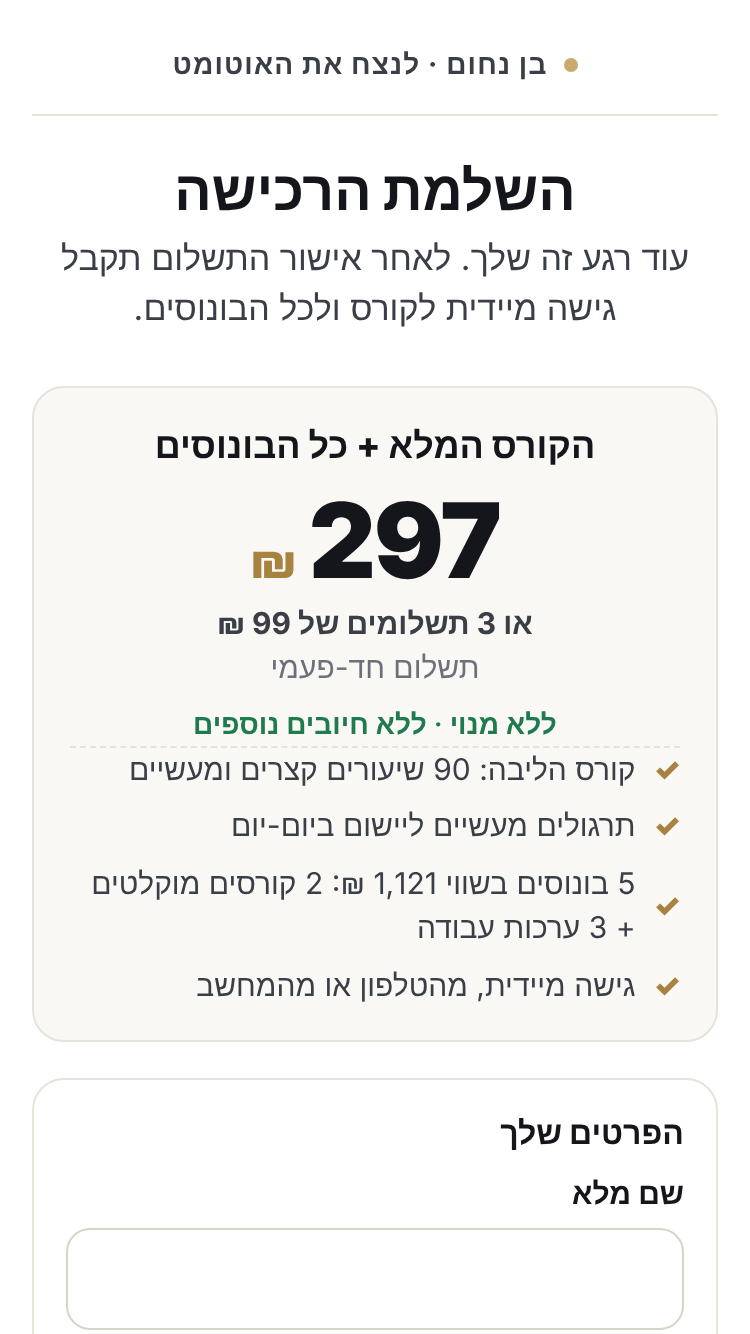
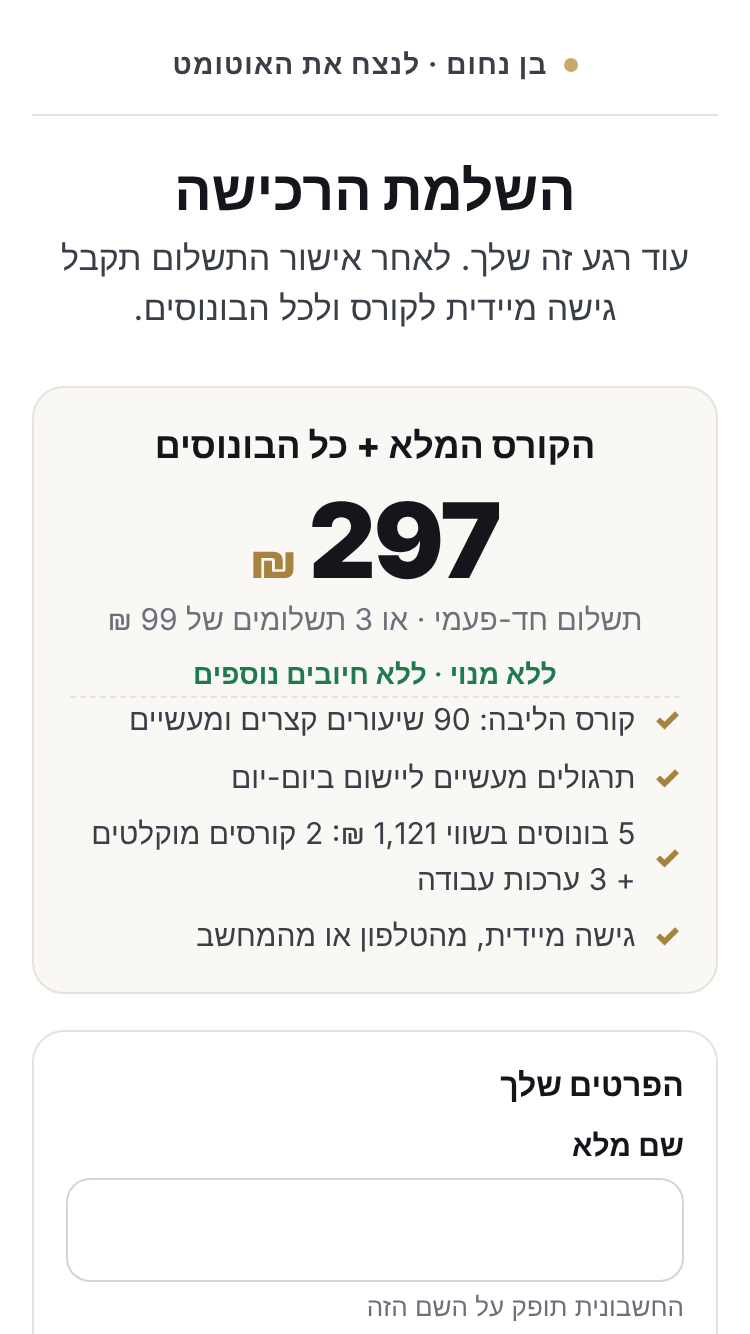
ב102 נפרס: daily עם on_1611 ו-ig_org לפי סליקה, תיאור ig_org מתוקן, צילומים
Claude-Session: https://claude.ai/code/session_01AWaDsUUa9CSR7XwcRd86aw

diff --git a/claude/b102/t_b102.js b/claude/b102/t_b102.js
@@ -37,10 +37,10 @@ let n = 0, f = 0; const ok = (m, c, i) => { n++; if (!c) { f++; console.log("FAI
     ok(arm + ": landed with exp=on_1611", u.pathname.endsWith("/" + arm + ".html") && u.searchParams.get("exp") === "on_1611", u.href);
     ok(arm + ": page events carry exp=on_1611 and aff=gal", X.ev.some(e => e.variant === arm && /exp=on_1611/.test(e.qs || "") && /aff=gal/.test(e.x || "")));
     await Promise.all([X.p.waitForURL(/checkout\.html/, { timeout: 10000 }).catch(() => {}), X.p.click('[data-cta="hero_main"] >> nth=0')]); await X.p.waitForTimeout(1500);
-    const c = new URL(X.p.url()); const st = await X.p.evaluate(() => ({ co: window.NLP_CO, dco: document.documentElement.getAttribute("data-co"), trust: getComputedStyle(document.getElementById("coTrust")).display, one1: getComputedStyle(document.querySelector(".one1")).display, price: getComputedStyle(document.querySelector(".order .price")).display, pay3: getComputedStyle(document.querySelector(".pay3")).display }));
+    const c = new URL(X.p.url()); const st = await X.p.evaluate(() => ({ co: window.NLP_CO, dco: document.documentElement.getAttribute("data-co"), trust: getComputedStyle(document.getElementById("coTrust")).display, one1: getComputedStyle(document.querySelector(".one1")).display, price: getComputedStyle(document.querySelector(".order .price")).display, pay3: getComputedStyle(document.querySelector(".pay3")).display, pay3i: getComputedStyle(document.querySelector(".pay3i")).display, name: Math.round(document.getElementById("fName").getBoundingClientRect().top + scrollY) }));
     ok(arm + ": checkout with v, exp, sid", /checkout\.html$/.test(c.pathname) && c.searchParams.get("v") === arm && /on_1611/.test(c.search) && !!c.searchParams.get("sid"), c.search);
     ok(arm + ": checkout version " + co, st.co === co && st.dco === (co === "a" ? "a" : "b"), JSON.stringify(st));
-    if (arm === "a") ok("a: checkout A as it was - price card shown, no one-line card, no trust row, 3 payments line shown (mobile)", st.price !== "none" && st.one1 === "none" && st.trust === "none" && st.pay3 !== "none", JSON.stringify(st));
+    if (arm === "a") ok("a: checkout A as it was - price card shown, no one-line card, no trust row, 3 payments line shown (mobile)", st.price !== "none" && st.one1 === "none" && st.trust === "none" && st.pay3 === "none" && st.pay3i !== "none", JSON.stringify(st));
     else ok("a5v6: B2 as today - one-line card, trust row (mobile)", st.one1 !== "none" && st.trust !== "none" && st.price === "none", JSON.stringify(st));
     if (SH) await X.p.screenshot({ path: path.join(SH, "arm_" + arm + "_checkout_iphone13.png") });
     await X.p.fill("#fName", "בדיקה פנימית"); await X.p.waitForTimeout(500);
@@ -82,7 +82,7 @@ let n = 0, f = 0; const ok = (m, c, i) => { n++; if (!c) { f++; console.log("FAI
   const note = await D2.p.evaluate(() => document.getElementById("onN").textContent); ok("stop-rule progress shown (3 / 2)", /150/.test(note) && /3 \/ 2/.test(note), note);
   ok("dashboard: no JS errors", !D2.errs.length, D2.errs.join("|"));
   const ex = await D2.p.evaluate(() => [ON_START.toISOString(), CHANGELOG[0][1].slice(0, 30), EXPERIMENTS[0].id, EXPERIMENTS.find(e => e.id === "pg_1611").status]);
-  ok("start 20:10, changelog ב102, experiments on_1611 first, pg_1611 closed", ex[0] === "2026-11-16T18:10:00.000Z" && /ב102/.test(ex[1]) && ex[2] === "on_1611" && /נסגר/.test(ex[3]), JSON.stringify(ex));
+  ok("start 20:10, changelog ב102, experiments on_1611 first, pg_1611 closed", ex[0] === (process.env.ONSTART || "2026-11-16T18:10:00.000Z") && /ב102/.test(ex[1]) && ex[2] === "on_1611" && /נסגר/.test(ex[3]), JSON.stringify(ex));
   const scr = async (X, s) => { await X.p.evaluate(s => setScreen(s), s); await X.p.waitForTimeout(300); return X.p.evaluate(s => document.getElementById("s-" + s).innerText.replace(/עודכן \d\d:\d\d/g, ""), s) };
   for (const s of ["snap", "co", "af", "fin", "up"]) ok("screen " + s + " unchanged", (await scr(D1, s)) === (await scr(D2, s)));
   console.log("TOTAL", n - f + "/" + n); await b.close(); process.exit(f ? 1 : 0) })();

diff --git a/claude/b102/patch_b102.py b/claude/b102/patch_b102.py
@@ -21,7 +21,7 @@ patch("nlp/go.html", [
   }
 ''', '''  /* ב102 ("מאשר ב102" מיהב, %s %s, בן אישר): ניסוי on_1611 - המסלול הישן (a.html + סליקה A, שני שלבים) מול a5v6 + סליקה B2. חצי-חצי, קבוע לדפדפן,
      לכל התנועה שעוברת ב-go.html. pg_1611 נסגר: מי ששובץ בו (או ב-ap2_0811) נשאר בדף שלו עם ה-exp הישן ולא נכנס לניתוח. pr2 נשאר באתר, מחוץ לחלוקה.
-     הזרוע נשמרת גם ב-nlp_co_ab, ודף התשלום פותח לפיה סליקה A או B2. אינסטגרם אורגני ממשיך ל-a בלי exp (ב44) */
+     הזרוע נשמרת גם ב-nlp_co_ab, ודף התשלום פותח לפיה סליקה A או B2. אינסטגרם אורגני ממשיך ל-a בלי exp (ב44), אבל מבקר חדש מוגרל קודם לזרוע (nlp_co_ab), ולכן בסליקה הוא מקבל A או B2 לפי הזרוע */
   var EXP="on_1611", K="nlp_go_"+EXP, v=null, pg=null, o=null, ex=EXP; try{ v=localStorage.getItem(K); pg=localStorage.getItem("nlp_go_pg_1611"); o=localStorage.getItem("nlp_go_ap2_0811"); }catch(e){}
   if(v!=="a"&&v!=="a5v6"){
     if(pg==="a5v6"||pg==="pr2"){ v=pg; ex="pg_1611"; }
@@ -48,8 +48,11 @@ window.NLP_CO=c;document.documentElement.setAttribute("data-co2",c==="b2"?"1":"0
 if(c!=="a"&&c!=="b"&&c!=="b2"){if(q.get("exp")==="on_1611")c=(q.get("v")==="a"?"a":"b2");else{var ab=null,v=null;try{ab=localStorage.getItem("nlp_co_ab");v=localStorage.getItem("nlp_co_b2")}catch(e){}
  if(ab==="a"||ab==="b2")c=ab;else if(v==="b"||v==="b2")c=v;else{c="b2";try{localStorage.setItem("nlp_co_b2","b2")}catch(e){}}}}}catch(e){c="b2"}
 window.NLP_CO=c;document.documentElement.setAttribute("data-co2",c==="b2"?"1":"0");document.documentElement.setAttribute("data-co",c==="a"?"a":"b")})();</script>''' % D),
+ ('''<p class="once">תשלום חד-פעמי</p>''', '''<p class="once">תשלום חד-פעמי<span class="pay3i"> · או 3 תשלומים של 99 ₪</span></p>'''),
  ('''.fld+.trust{margin:-2px 0 12px}''', '''.fld+.trust{margin:-2px 0 12px}
-html[data-co="a"] .trust{display:none} /* ב102: סליקה A כמו שהייתה (בלי שורת האמון של ב96) */'''),
+html[data-co="a"] .trust{display:none} /* ב102: סליקה A כמו שהייתה (בלי שורת האמון של ב96) */
+.pay3i{display:none}
+@media (max-width:600px){html[data-co="a"] .pay3{display:none}html[data-co="a"] .pay3i{display:inline}} /* ב102: ב-A במובייל שורת 3 התשלומים מאוחדת עם "תשלום חד-פעמי" - בלי תוספת גובה */'''),
  ('''@media (max-width:600px){
 .wrap{padding-top:10px}
 .brand{padding:2px 0 8px}
@@ -106,12 +109,12 @@ function renderOn(M){const who=s=>s.vid||s.sid,ARM={a:"ישן: a + סליקה A"
  ('''op:()=>{renderPg(build(EXP.start,new Date(Date.now()+864e5)));renderOpt()},''', '''op:()=>{renderOn(build(ON_START,new Date(Date.now()+864e5)));renderPg(build(EXP.start,new Date(Date.now()+864e5)));renderOpt()},'''),
  ('''const EXPERIMENTS=[
 ''', '''const EXPERIMENTS=[
- {id:"on_1611",name:"המסלול הישן מול הדף החדש (ב102, %s)",hyp:"המסלול הישן (a + סליקה A בשני שלבים) מביא יותר השארת פרטים מ-a5v6 + B2 (ב-Pilot: a 8 מ-129, a5/pr2/a5v6 יחד 1 מ-208)",change:"go.html מחלק חצי-חצי בין a (סליקה A) ל-a5v6 (סליקה B2), קבוע לדפדפן, exp=on_1611. pg_1611 וניסוי B מול B2 נסגרו; מי ששובץ קודם נשאר בדף שלו מחוץ לניתוח",arms:"ישן (a + סליקה A) מול חדש (a5v6 + B2), חצי-חצי, שיוך קבוע לדפדפן",start:"%s",end:"",status:"פעיל",split:"50/50",primary:"השאירו פרטים לאדם, ממודעות של בן בלבד (משווקים בנפרד). עצירה: 150 אנשים לזרוע או 14 יום; מנצחת פי 2 ולפחות 5",secondary:"הגעה לדף התשלום, התחלת מילוי, טופס תשלום, רכישות מאומתות",guard:"חלוקה תקינה (SRM), סליקה לפי זרוע (a->A, a5v6->B2), שגיאות טעינה וכשלי תשלום"},
+ {id:"on_1611",name:"המסלול הישן מול הדף החדש (ב102, %s)",hyp:"המסלול הישן (a + סליקה A בשני שלבים) מביא יותר השארת פרטים מ-a5v6 + B2 (ב-Pilot: a 8 מ-129, a5/pr2/a5v6 יחד 1 מ-208)",change:"go.html מחלק חצי-חצי בין a (סליקה A) ל-a5v6 (סליקה B2), קבוע לדפדפן, exp=on_1611. pg_1611 וניסוי B מול B2 נסגרו; מי ששובץ קודם נשאר בדף שלו מחוץ לניתוח. אינסטגרם אורגני: ל-a בלי exp, ובסליקה A או B2 לפי הזרוע שהוגרלה",arms:"ישן (a + סליקה A) מול חדש (a5v6 + B2), חצי-חצי, שיוך קבוע לדפדפן",start:"%s",end:"",status:"פעיל",split:"50/50",primary:"השאירו פרטים לאדם, ממודעות של בן בלבד (משווקים בנפרד). עצירה: 150 אנשים לזרוע או 14 יום; מנצחת פי 2 ולפחות 5",secondary:"הגעה לדף התשלום, התחלת מילוי, טופס תשלום, רכישות מאומתות",guard:"חלוקה תקינה (SRM), סליקה לפי זרוע (a->A, a5v6->B2), שגיאות טעינה וכשלי תשלום"},
 ''' % (D, day)),
  ('''arms:"a5v6, pr2 חצי-חצי, שיוך קבוע לדפדפן",start:"2026-11-15",end:"",status:"פעיל",''', '''arms:"a5v6, pr2 חצי-חצי, שיוך קבוע לדפדפן",start:"2026-11-15",end:"%s",status:"נסגר (ב102)",''' % day),
  ('''const CHANGELOG=[
 ''', '''const CHANGELOG=[
-["%s","%s - ב102 (\\"מאשר ב102\\" מיהב, בן אישר): ניסוי on_1611 - go.html מחלק חצי-חצי בין המסלול הישן (a + סליקה A, שני שלבים) ל-a5v6 + B2, קבוע לדפדפן. pg_1611 וניסוי B מול B2 נסגרו (מי ששובץ קודם נשאר בדף שלו). סליקה A בעיצוב שלה (בלי שורת האמון ובלי כרטיס השורה האחת של ב99), עם 3 התשלומים, ביט, Apple Pay ו-Google Pay, ההתאמה המתקדמת וסימון הבדיקה. cx=co_on_1611. ההשוואה מ-%s."],
+["%s","%s - ב102 (\\"מאשר ב102\\" מיהב, בן אישר): ניסוי on_1611 - go.html מחלק חצי-חצי בין המסלול הישן (a + סליקה A, שני שלבים) ל-a5v6 + B2, קבוע לדפדפן. pg_1611 וניסוי B מול B2 נסגרו (מי ששובץ קודם נשאר בדף שלו). סליקה A בעיצוב שלה (בלי שורת האמון ובלי כרטיס השורה האחת של ב99), עם 3 התשלומים, ביט, Apple Pay ו-Google Pay, ההתאמה המתקדמת וסימון הבדיקה. cx=co_on_1611. אינסטגרם אורגני ממשיך ל-a בלי exp, אבל מבקר חדש מוגרל לזרוע ובסליקה מקבל A או B2 לפיה (שורה נפרדת בסיכום היומי). ההשוואה מ-%s."],
 ''' % (day, hm, ST.strftime("%H:%M"))),
 ])
 
@@ -129,6 +132,15 @@ for lab,keep in (("paid",lambda s:s["src"]=="paid"),("aff",lambda s:s["src"]=="a
     R3={v:{"people":len(P[v]),"checkout":sum(o["chk"] for o in P[v].values()),"started":sum(o["det"] for o in P[v].values()),"leads":sum(o["lead"] for o in P[v].values()),"payform":sum(o["pay"] for o in P[v].values()),"buys":sum(o["buy"] for o in P[v].values())} for v in ("a","a5v6")}
     print("b102 on_1611",lab,R3,"| SRM",srm(R3["a"]["people"],R3["a5v6"]["people"]))
 print("b102 stop rule: paid people per arm (150) a=%%d a5v6=%%d, days %%d of 14" %% (len({s["vid"] or s["t"] for s in S.values() if s["exp"]=="on_1611" and s["v"]=="a" and s["t"]>=ON and s["src"]=="paid"}),len({s["vid"] or s["t"] for s in S.values() if s["exp"]=="on_1611" and s["v"]=="a5v6" and s["t"]>=ON and s["src"]=="paid"}),max(0,(datetime.now()-ON).days)))
+IG=defaultdict(lambda: defaultdict(lambda: defaultdict(int)))
+for s in S.values():
+    if s["route"]=="ig_org" and s["t"]>=ON and s["chk"]:
+        o=IG[s["co"] or "-"][s["vid"] or s["t"].isoformat()]
+        for f in ("chk","lead","buy"): o[f]|=s.get(f,0)
+IGP=defaultdict(set)
+for s in S.values():
+    if s["route"]=="ig_org" and s["t"]>=ON: IGP["all"].add(s["vid"] or s["t"].isoformat())
+print("b102 ig_org by checkout (A vs B2): people (all ig_org)",len(IGP["all"]),{co:{"reached checkout":len(P),"details":sum(o["lead"] for o in P.values()),"buys":sum(o["buy"] for o in P.values())} for co,P in IG.items()})
 print("b102 checkout version by arm (should be a->a, a5v6->b2):",Counter((s["v"],s["co"] or "-") for s in S.values() if s["exp"]=="on_1611" and s["chk"]))
 EXPID="a5v6_1511"
 report(SC''' % (ST.year, ST.month, ST.day, ST.hour, ST.minute)),

diff --git a/claude/daily/daily_0811.py b/claude/daily/daily_0811.py
@@ -111,6 +111,27 @@ for lab,keep in (("paid",lambda s:s["src"]=="paid"),("aff",lambda s:s["src"]=="a
         for f in ("chk","det","lead","buy"): o[f]|=s.get(f,0)
     R2={v:{"people":len(P[v]),"checkout":sum(o["chk"] for o in P[v].values()),"started":sum(o["det"] for o in P[v].values()),"leads":sum(o["lead"] for o in P[v].values()),"buys":sum(o["buy"] for o in P[v].values())} for v in ("a5v6","pr2")}
     print("b94 pg_1611",lab,R2,"| SRM",srm(R2["a5v6"]["people"],R2["pr2"]["people"]))
+# ב102: on_1611 - "ישן" (a + סליקה A) מול "חדש" (a5v6 + B2). ראשי: השאירו פרטים (checkout_details) לאדם, ממודעות של בן בלבד. משווקים בנפרד
+ON=datetime(2026,11,16,15,5)  # פריסה + 10 דקות מטמון
+for lab,keep in (("paid",lambda s:s["src"]=="paid"),("aff",lambda s:s["src"]=="aff"),("all",lambda s:True)):
+    E=[s for s in S.values() if s["exp"]=="on_1611" and s["v"] in("a","a5v6") and s["t"]>=ON and keep(s)]
+    P=defaultdict(lambda: defaultdict(lambda: defaultdict(int)))
+    for s in E:
+        o=P[s["v"]][s["vid"] or s["v"]+s["t"].isoformat()]
+        for f in ("chk","det","lead","pay","buy"): o[f]|=s.get(f,0)
+    R3={v:{"people":len(P[v]),"checkout":sum(o["chk"] for o in P[v].values()),"started":sum(o["det"] for o in P[v].values()),"leads":sum(o["lead"] for o in P[v].values()),"payform":sum(o["pay"] for o in P[v].values()),"buys":sum(o["buy"] for o in P[v].values())} for v in ("a","a5v6")}
+    print("b102 on_1611",lab,R3,"| SRM",srm(R3["a"]["people"],R3["a5v6"]["people"]))
+print("b102 stop rule: paid people per arm (150) a=%d a5v6=%d, days %d of 14" % (len({s["vid"] or s["t"] for s in S.values() if s["exp"]=="on_1611" and s["v"]=="a" and s["t"]>=ON and s["src"]=="paid"}),len({s["vid"] or s["t"] for s in S.values() if s["exp"]=="on_1611" and s["v"]=="a5v6" and s["t"]>=ON and s["src"]=="paid"}),max(0,(datetime.now()-ON).days)))
+IG=defaultdict(lambda: defaultdict(lambda: defaultdict(int)))
+for s in S.values():
+    if s["route"]=="ig_org" and s["t"]>=ON and s["chk"]:
+        o=IG[s["co"] or "-"][s["vid"] or s["t"].isoformat()]
+        for f in ("chk","lead","buy"): o[f]|=s.get(f,0)
+IGP=defaultdict(set)
+for s in S.values():
+    if s["route"]=="ig_org" and s["t"]>=ON: IGP["all"].add(s["vid"] or s["t"].isoformat())
+print("b102 ig_org by checkout (A vs B2): people (all ig_org)",len(IGP["all"]),{co:{"reached checkout":len(P),"details":sum(o["lead"] for o in P.values()),"buys":sum(o["buy"] for o in P.values())} for co,P in IG.items()})
+print("b102 checkout version by arm (should be a->a, a5v6->b2):",Counter((s["v"],s["co"] or "-") for s in S.values() if s["exp"]=="on_1611" and s["chk"]))
 EXPID="a5v6_1511"
 report(SC,datetime(2100,1,1),["a5v6"],"a5v6 all traffic (b68 stage C, from 15.11 07:33), paid only")
 report(SC,datetime(2100,1,1),["a5v6"],"a5v6 all traffic (b68 stage C) ALL sources",only_paid=False)

diff --git a/claude/b102/README.md b/claude/b102/README.md
@@ -17,10 +17,10 @@
   3. `nlp_co_ab`. זה מכסה גם חזרה מקארדקום בלי פרמטרים.
   4. שיבוץ קודם של ב90 (B או B2).
   5. B2.
-- **ניסוי B מול B2 נסגר:** מכשיר חדש מחוץ לניסוי מקבל B2.
-  - **אינסטגרם אורגני:** בסליקה הוא מקבל עכשיו B2 במקום הגרלה בין B ל-B2. הניתוב שלו לא משתנה.
+- **ניסוי B מול B2 נסגר:** מכשיר חדש שלא עבר ב-go.html מקבל B2.
+  - **אינסטגרם אורגני (תוקן):** הניתוב שלו ל-a בלי exp לא משתנה. אבל מבקר אורגני חדש שעובר ב-go.html מוגרל קודם לזרוע, ו-nlp_co_ab נשמר. לכן בסליקה הוא מקבל A או B2 לפי הזרוע, לא B2 תמיד. ההתנהגות נשארת, ובסיכום היומי יש שורה נפרדת: `b102 ig_org by checkout (A vs B2)`.
 - **סליקה A כמו שהייתה ב-08.11:** בלי שורת האמון (ב96) ובלי כרטיס השורה האחת במובייל (ב99). ההגבלה הזו נכנסת לסלקטורים של CSS (`html:not([data-co="a"])`).
-  - **צילום השוואה:** `A_0811_baseline` מול `A_after_patch`. ההבדל היחיד הוא השורה "או 3 תשלומים של 99 ₪", וששדה השם יורד ב-25px (589 → 614).
+  - **3 התשלומים ב-A במובייל (תיקון לפני הפריסה):** השורה מאוחדת עם "תשלום חד-פעמי" ("תשלום חד-פעמי · או 3 תשלומים של 99 ₪"), בלי תוספת גובה. שדה השם ב-589px ב-375x667, כמו ב-08.11 (צילום `A_final_375x667` מול `A_0811_baseline_375x667`). במחשב, וב-B וב-B2, השורה נשארת כמו היום.
 - **מה הזרוע הישנה מקבלת, כמו היום:**
   - 3 תשלומים (בקארדקום, והשורה ליד המחיר).
   - ביט.
@@ -65,3 +65,20 @@
 - **יום שלם ראשון:** נקי, בלי לערבב עם המייל של הערב.
 - **הסיכום היומי:** של 07:41 כבר יראה את הניסוי בשורות b102.
 - **הניתוח:** מתחיל 10 דקות אחרי הפריסה, אחרי המטמון.
+
+## נפרס ("מאשר ב102" מיהב, 16.11)
+- **main:** 85f6e14d. push ב-14:58:36, חי מ-14:59:57. ההשוואה מ-15:05.
+- **hash חי:**
+  - go: 2dc6b1cf7706fed8
+  - checkout: a37bf5932983d903
+  - dashboard: 459050c99001bb1e
+  - campaign: 01ff32c821ad4b31
+- **בדיקות לפני הפריסה:**
+  - t_b102: 41/41
+  - t_cofields: 72/72
+  - t_wallbelow: 26/26
+  - התאמה מתקדמת: 2/2
+  - שדה השם ב-A: 589px
+- **קישורי בדיקה פנימיים:** בלי פיקסל, עם int=1. הם עוקפים את go.html, ולכן לא משבצים את הטלפון לזרוע.
+  - ישן: `a.html?exp=on_1611&internal=1&utm_source=internal_test&utm_medium=email&utm_campaign=b102_check`
+  - חדש: `a5v6.html?exp=on_1611&internal=1&utm_source=internal_test&utm_medium=email&utm_campaign=b102_check`
